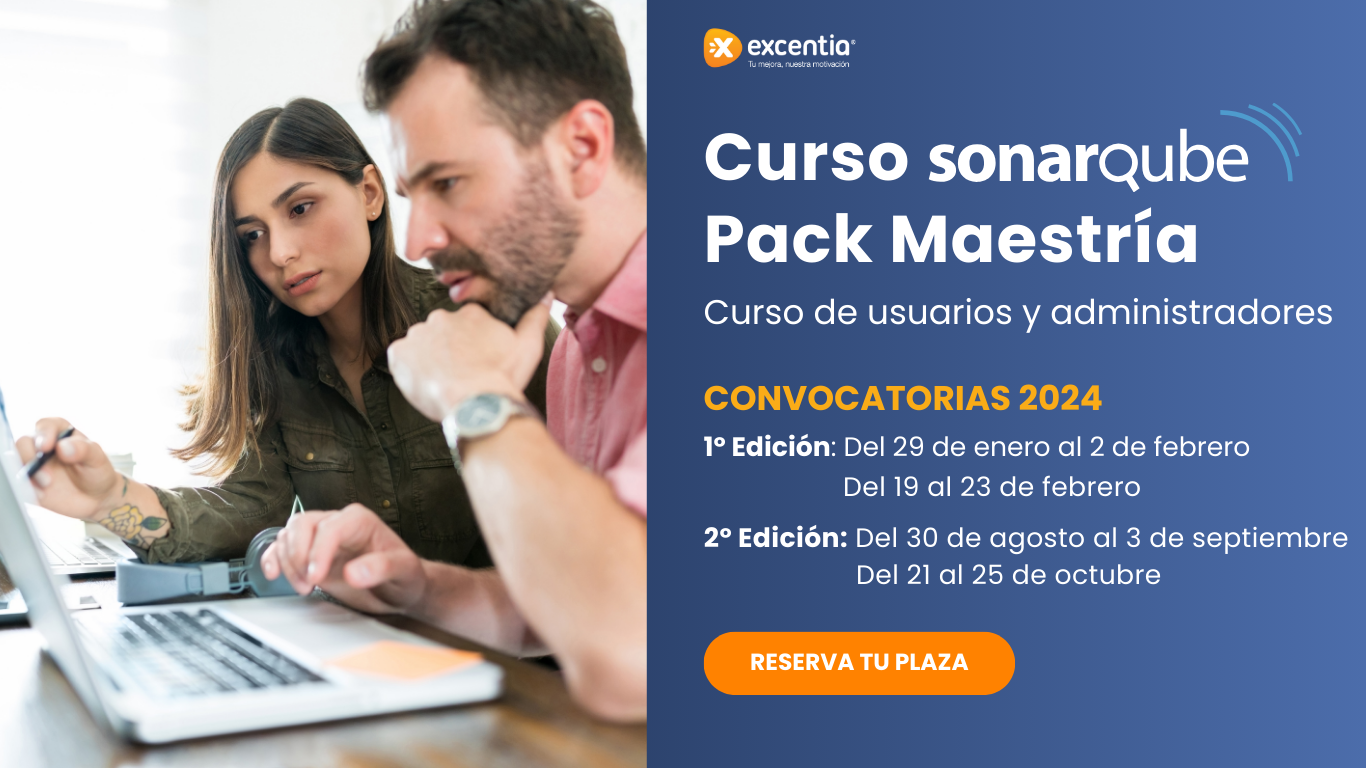
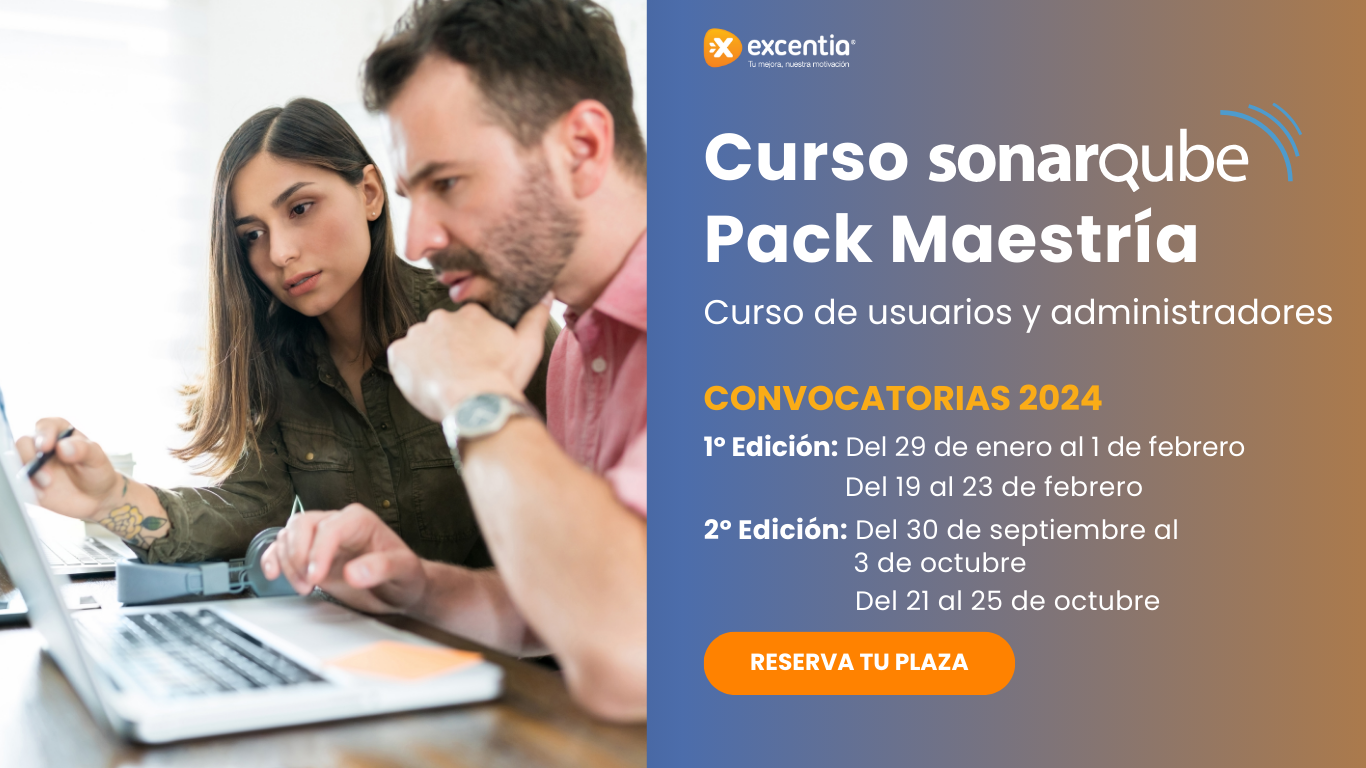
packmaestria

diff --git a/curso-sonarqube-pack-maestria.html b/curso-sonarqube-pack-maestria.html
@@ -27,12 +27,12 @@ description: Curso SonarQube Pack Maestría | Curso SonarQube para Usuarios y pa
         </p>
         <p class="header-text">         
           <strong>CONVOCATORIAS 2024:</strong><br>
-          <strong>- 1º Edición</strong>: Del 29 de enero al 2 de febrero | Del 19 al 23 de febrero.<br>
-          <strong>- 2º Edición</strong>: Del 30 de agosto al 3 de septiembre | Del 21 al 25 de octubre.<br>
+          <strong>- 1º Edición</strong>: Del 29 de enero al 1 de febrero | Del 19 al 23 de febrero.<br>
+          <strong>- 2º Edición</strong>: Del 30 de septiembre al 3 de octubre | Del 21 al 25 de octubre.<br>
         </p>
         
         <div class="text-left">
-          <a class="btn btn-warning btn-xl" href="/curso-sonarqube-pack-maestria#curso-formulario">ME APUNTO</a>
+          <a class="btn btn-warning btn-xl" href="https://www.paypal.com/cgi-bin/webscr?cmd=_s-xclick&hosted_button_id=E8Q9J73P9WNYE">ME APUNTO</a>
         </div>
       </div>
     </div>
@@ -132,11 +132,25 @@ description: Curso SonarQube Pack Maestría | Curso SonarQube para Usuarios y pa
         </p>
         <h3 style="text-transform: uppercase;padding-top:20px">Duración </h3>
         <ul class="header-text">
-          <li>Curso SonarQube para Usuarios (6h) <br/>
+          <li>Curso SonarQube para Usuarios (8h) 
+          <br>En horario: 14:00 a 16:00 horas <br/>
         </ul>
         <ul class="header-text">
-          <li>Curso SonarQube para Administradores (10h)<br/>
+          <li>Curso SonarQube para Administradores (10h)
+          <br>En horario: 14:00 a 16:30 horas <br/>
         </ul>
+        <h3 style="text-transform: uppercase;padding-top:20px">Precio </h3>
+        <p class="header-text">249€</p>
+
+        <h3 style="text-transform: uppercase;padding-top:20px">MÉTODO DE PAGO</h3>
+        <p class="header-text">
+        <ul class="header-li-text">
+          <li>Paypal</li>
+          <li>Transferencia bancaria (disponible bajo petición <a href="mailto:formacion@excentia.es">formacion@excentia.es</a>)
+          </li>
+        </ul>
+        </p>
+
         <!-- Próximas convocatorias para cuando no haya activas
 
         <h3 style="text-transform: uppercase;padding-top:20px">PRÓXIMAS CONVOCATORIAS</h3>
@@ -148,7 +162,7 @@ description: Curso SonarQube Pack Maestría | Curso SonarQube para Usuarios y pa
 
         <!-- Botón comprar para cuando haya convocatorias -->
         <div class="text-left">
-          <a class="btn btn-warning btn-xl" href="/curso-sonarqube-pack-maestria#curso-formulario">COMPRAR</a>
+          <a class="btn btn-warning btn-xl" href="https://www.paypal.com/cgi-bin/webscr?cmd=_s-xclick&hosted_button_id=E8Q9J73P9WNYE">COMPRAR</a>
         </div>
 
       </div>
@@ -275,7 +289,7 @@ description: Curso SonarQube Pack Maestría | Curso SonarQube para Usuarios y pa
   </div>
 </section>
 
-<!--Contact Form-->
+<!--Contact Form
 <section id="curso-formulario" class="text-center" style="padding: 40px 0">
   <div class="container">
     <div class="row">
@@ -326,7 +340,7 @@ description: Curso SonarQube Pack Maestría | Curso SonarQube para Usuarios y pa
       </div>
     </div>
   </div>
-</section>
+</section>-->
 
 <section id="banner" class="bg-primary text-center" style="background-color: #37394f; padding:30px 0">
   <div class="container">

diff --git a/curso-sonarqube-usuarios.html b/curso-sonarqube-usuarios.html
@@ -128,6 +128,15 @@ redirect_from:
         <p class="header-text">99€
         </p>
 
+        <h3 style="text-transform: uppercase;padding-top:20px">MÉTODO DE PAGO</h3>
+        <p class="header-text">
+        <ul class="header-li-text">
+          <li>Paypal</li>
+          <li>Transferencia bancaria (disponible bajo petición <a href="mailto:formacion@excentia.es">formacion@excentia.es</a>)
+          </li>
+        </ul>
+        </p>
+
         <!-- Próximas convocatorias para cuando no haya activas
 
         <h3 style="text-transform: uppercase;padding-top:20px">PRÓXIMAS CONVOCATORIAS</h3>
